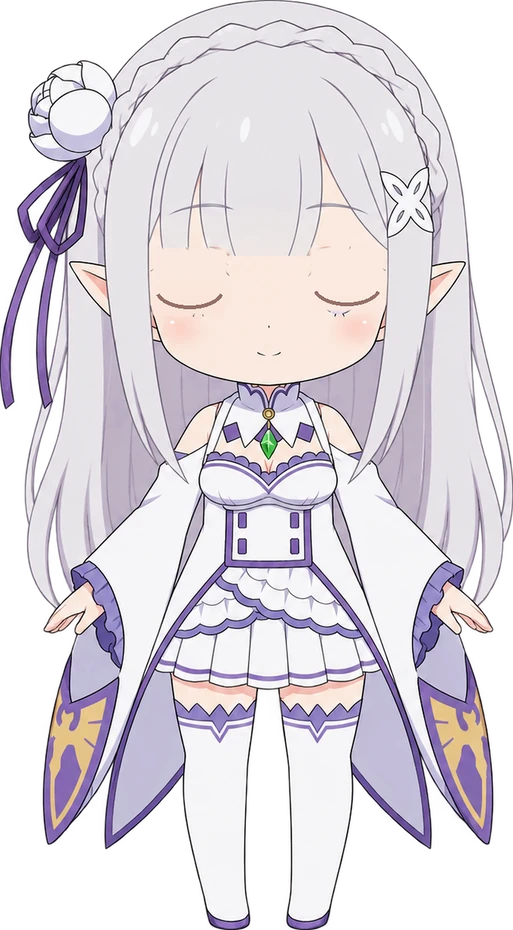
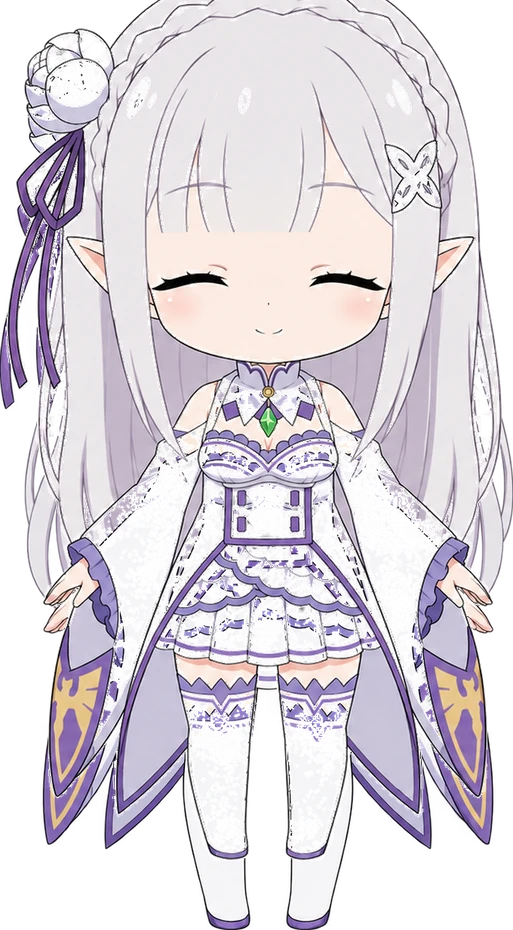
feat(pet): 闭眼帧改为配准后的作者原图，眨眼用交叉溶解
- 彻底停止程序化皮肤化/画睫毛：白边、残留线稿、颜色不一致都源自这些合成步骤
- 闭眼帧 = 正面闭眼.png 抠底 + 按眼中心配准到正视图画布（scale 1.1210, offset 7.1/-43.3）
- 眨眼序列：0.65 透明度(90ms) → 1.0 全闭(到 300ms) → 睁；靠交叉溶解过渡
- v=20261030i / codeVer 20261030.9

Changed region(s): [[0.0, 0.0, 0.9981, 0.9355], [0.5614, 0.8419, 0.655, 0.9355], [0.3743, 0.8419, 0.4055, 0.9043]]

diff --git a/source/js/pet.js b/source/js/pet.js
@@ -33,8 +33,8 @@
   var bubbleTimer = null, lastPath = null, raf = 0;
 
   /* ---------- 伪 2.5D：整卡透视倾斜 ---------- */
-  var ASSET_V = '?v=20261030h';
-  var PET_VER = '20261030.8';   // 内容指纹：改素材必须同步改这里，否则 CDN 7 天缓存不会更新
+  var ASSET_V = '?v=20261030i';
+  var PET_VER = '20261030.9';   // 内容指纹：改素材必须同步改这里，否则 CDN 7 天缓存不会更新
   var SPRITE_HALF_1X = '/images/pet/front_half_310.webp' + ASSET_V;
   var SPRITE_HALF_2X = '/images/pet/front_half_620.webp' + ASSET_V;
   var SPRITE_HALF_3X = '/images/pet/front_half_930.webp' + ASSET_V;
@@ -229,17 +229,15 @@
     if (!el || !closedEl || !halfEl || document.hidden) { scheduleBlink(); return; }
     blinkOn = true;
     for (var i = 0; i < eyeEls.length; i++) eyeEls[i].style.opacity = '0';
-    if (halfEl) halfEl.style.opacity = '1';
-    setTimeout(function () {
-      if (halfEl) halfEl.style.opacity = '0';
-      if (closedEl) closedEl.style.opacity = '1';
-    }, 70);
+    // 交叉溶解到闭眼原画：半程 → 全闭 → 睁（不做任何贴片/绘制）
+    if (closedEl) closedEl.style.opacity = '0.65';
+    setTimeout(function () { if (closedEl) closedEl.style.opacity = '1'; }, 90);
     setTimeout(function () {
       blinkOn = false;
       if (closedEl) closedEl.style.opacity = '0';
       for (var j = 0; j < eyeEls.length; j++) eyeEls[j].style.opacity = '1';
       scheduleBlink();
-    }, 330);
+    }, 300);
   }
 
   function startBlink() {

diff --git a/source/css/pet.css b/source/css/pet.css
@@ -32,14 +32,14 @@
 }
 
 /* 眼睛跟随补丁：叠在精灵上，只做小范围位移 */
-#pet-widget .pet-card > .pet-closed,
-#pet-widget .pet-card > .pet-half {
+#pet-widget .pet-card > .pet-closed {
   position: absolute;
   inset: 0;
   width: 100%;
   height: 100%;
   pointer-events: none;
   opacity: 0;
+  transition: opacity 0.08s linear;
 }
 
 #pet-widget .pet-eye,
